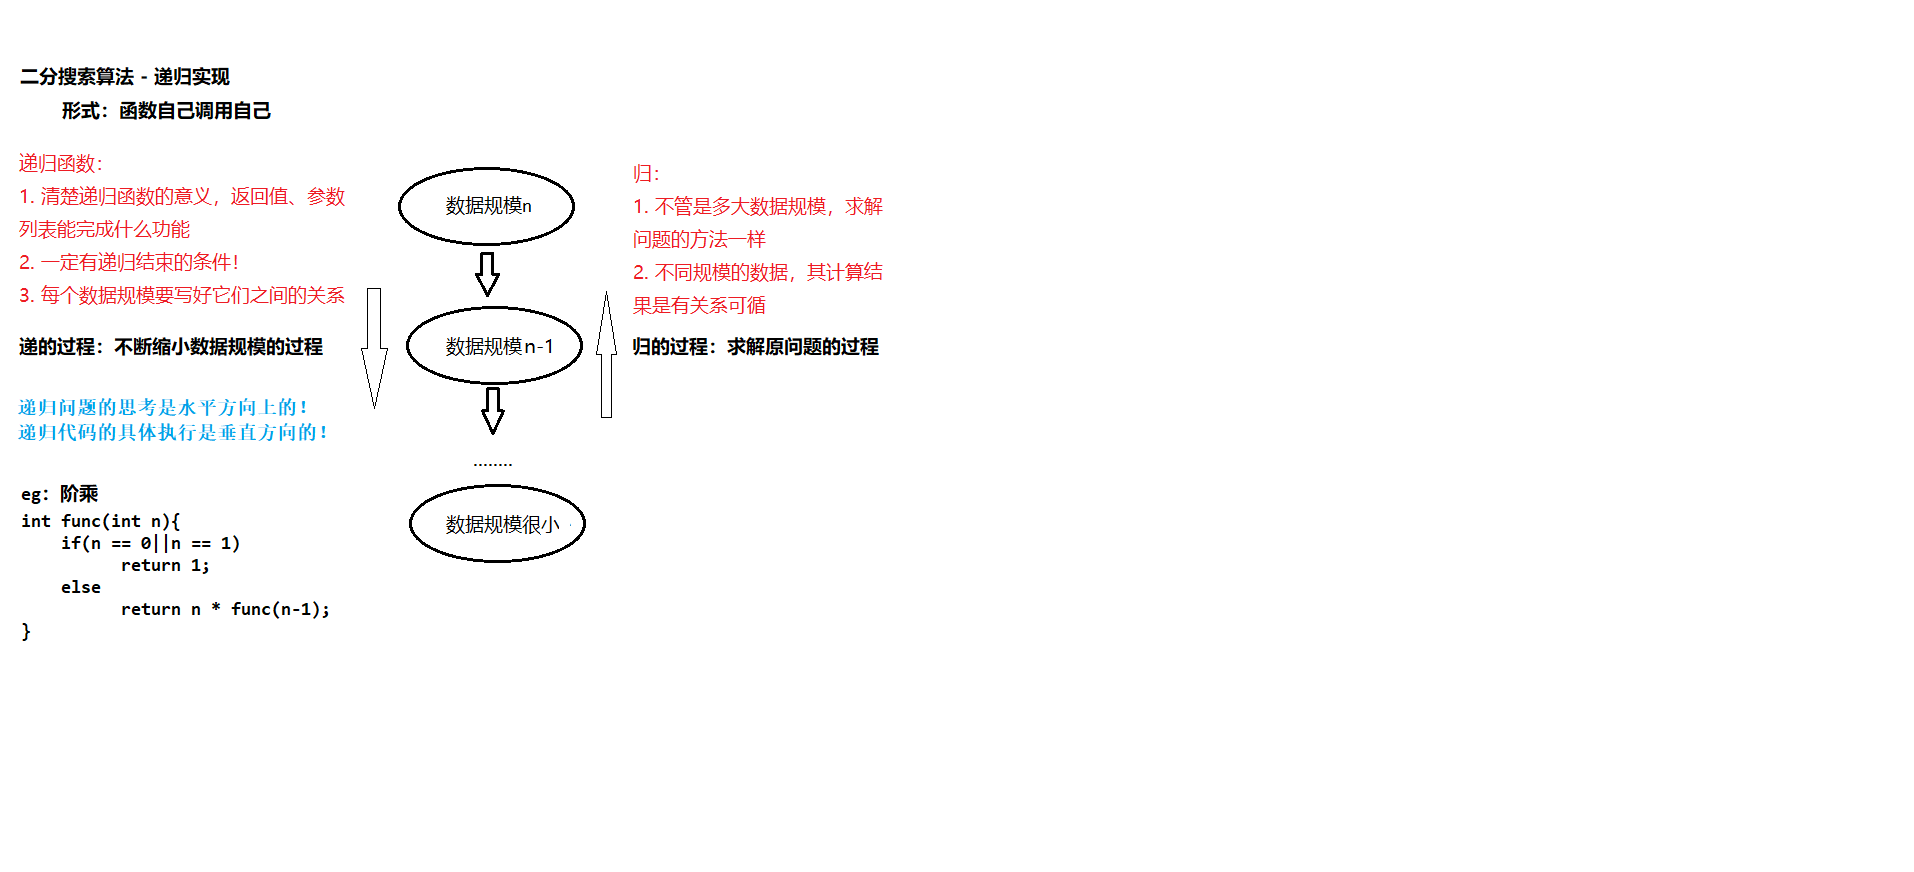
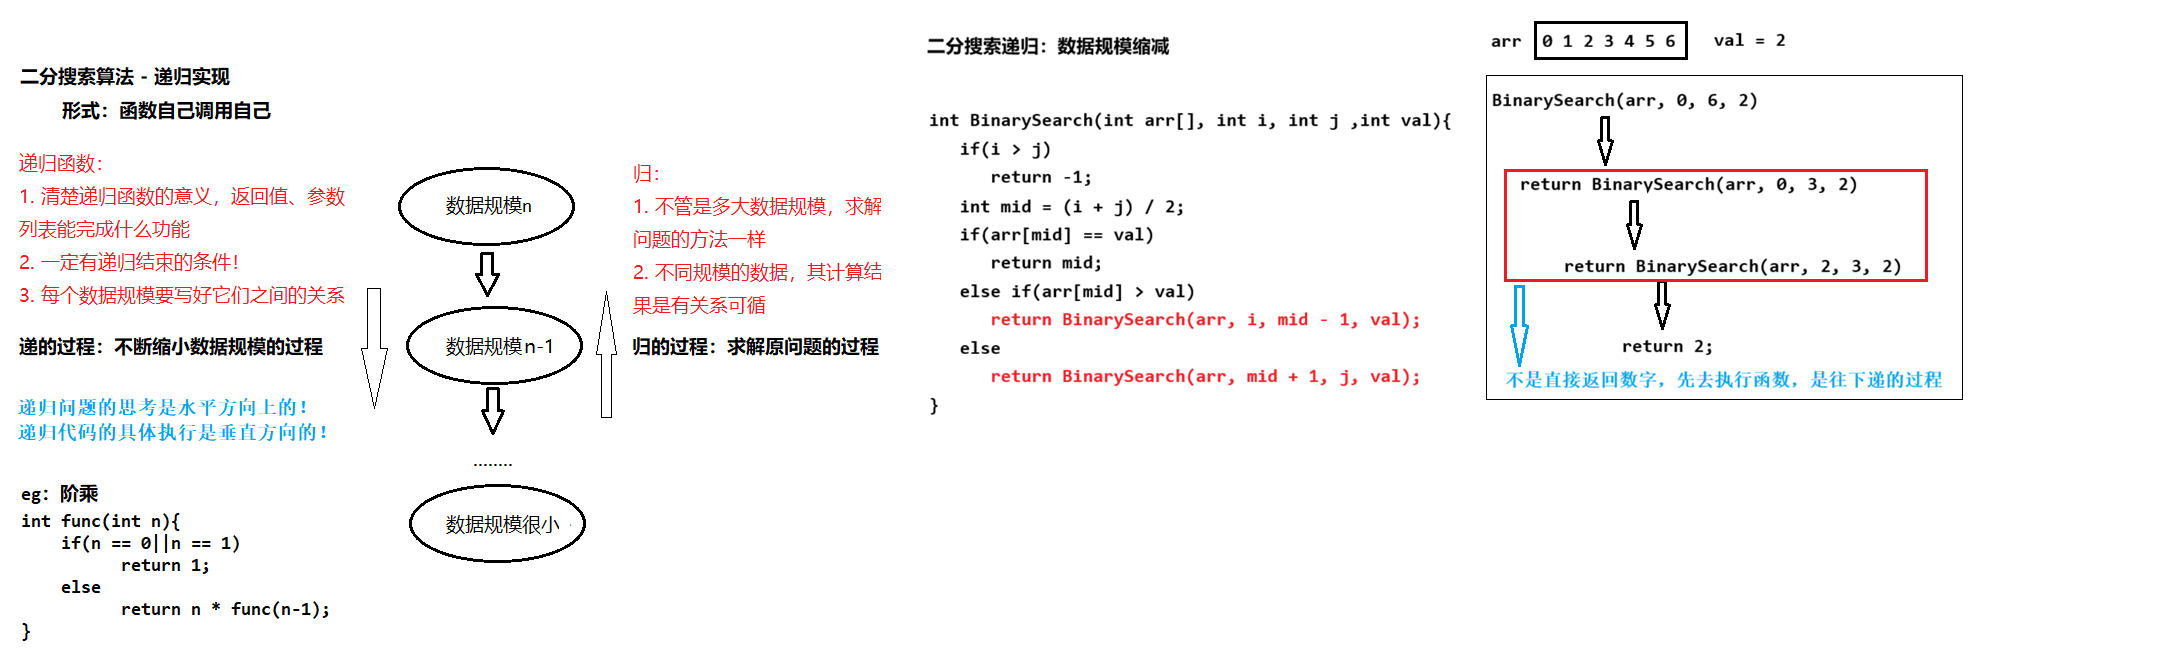
1

diff --git a/10 二分搜索/10 二分搜索/10 二分搜索.cpp b/10 二分搜索/10 二分搜索/10 二分搜索.cpp
@@ -2,7 +2,24 @@
 
 using namespace std;
 
+//二分搜索-递归
+int BinarySearch(int arr[], int i, int j, int val) {
+	if (i > j)
+		return -1;
+	int mid = (i + j) / 2;
+	if (arr[mid] == val)
+		return mid;
+	else if (arr[mid] > val)
+		return BinarySearch(arr, i, mid - 1, val);
+	else 
+		return BinarySearch(arr, mid + 1, j, val);
+}
+
+//二分搜索-非递归
 int BinarySearch(int arr[], int size, int val) {
+
+	return BinarySearch(arr, 0, size - 1, val);
+	/*	
 	int first = 0;
 	int last = size - 1;
 
@@ -20,6 +37,7 @@ int BinarySearch(int arr[], int size, int val) {
 		}
 	}
 	return -1;
+	*/
 }
 
 int main() {
@@ -28,5 +46,5 @@ int main() {
 	cout << BinarySearch(arr, size, 56) << endl;
 	cout << BinarySearch(arr, size, 12) << endl;
 	cout << BinarySearch(arr, size, 99) << endl;
-	cout << BinarySearch(arr, size, 45) << endl;
+	cout << BinarySearch(arr, size, 0) << endl;
 }
